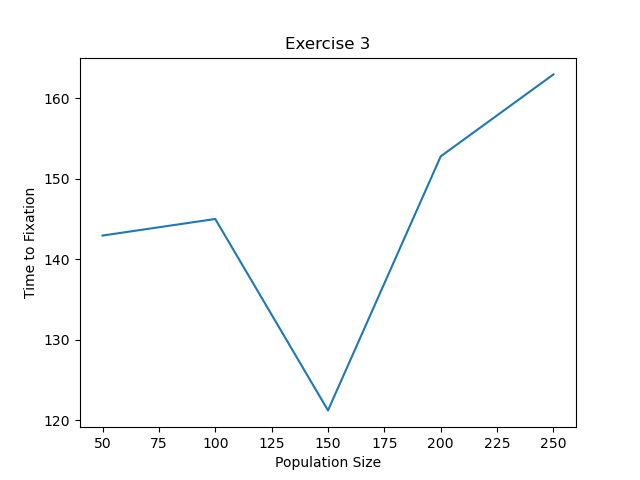
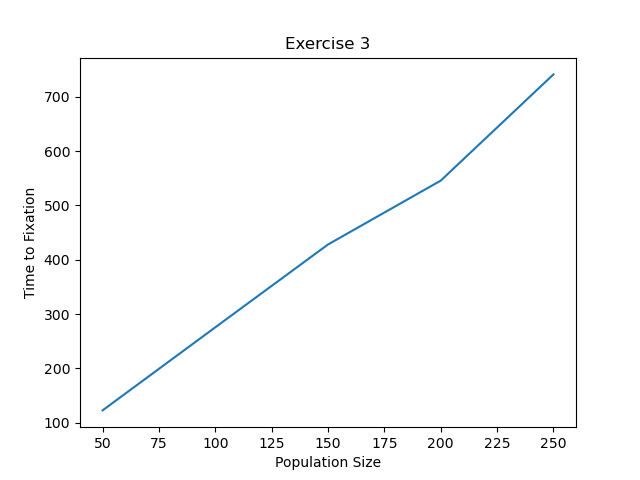
Day 4 Exercise 3 part 1 fixed

diff --git a/day4-homework/Day_4_Exercise_3_part_1.py b/day4-homework/Day_4_Exercise_3_part_1.py
@@ -30,7 +30,7 @@ for pop in population:
 
 	fixation_time = []
 	for i in range(50):
-		trials = genetic_drift(0.5, 50)
+		trials = genetic_drift(0.5, pop)
 		fixation_time.append(trials)
 
 #print(fixation_time)
